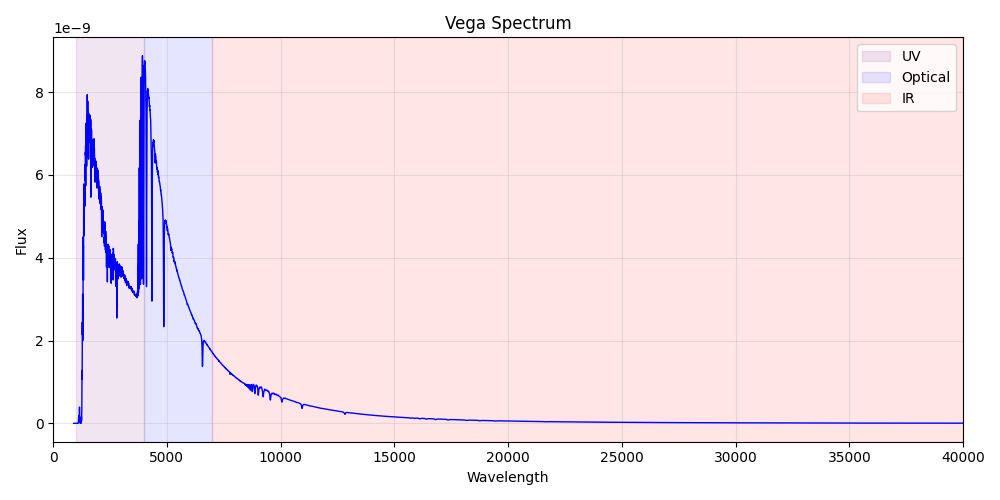
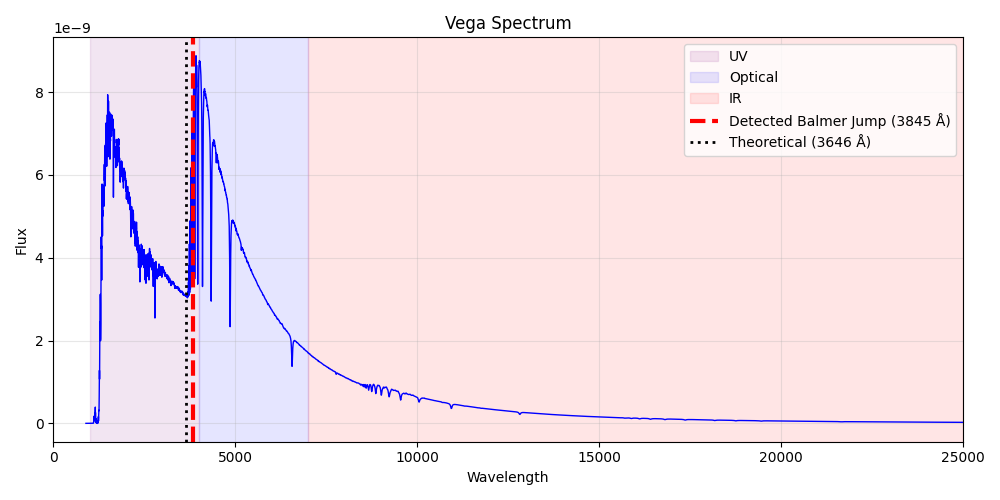
2025-11-14 update
更新了巴尔末跳跃，并修改了黑体拟合，使用巴尔末跳跃之后的光谱部分

diff --git a/src/physic_analyzer.py b/src/physic_analyzer.py
@@ -11,8 +11,19 @@ def surface_temperature(wavelength,flux):
 
     return T
 
+'''2.巴尔末跳跃'''
+def locate_balmer_jump(wavelength,flux):
+    search_region = (wavelength > 2000) & (wavelength < 5000)
+    wl_search = wavelength[search_region]
+    flux_search = flux[search_region]
+    # 找到梯度最大点
+    max_gradient_index = np.argmax(np.diff(flux_search))
+    balmer_jump_wavelength = wl_search[max_gradient_index + 1] # +1 因为diff使数组缩短了一位
+    print(f"巴尔末跳跃位置: {balmer_jump_wavelength:.1f} Å")
 
-'''2.普朗克黑体辐射拟合'''
+    return balmer_jump_wavelength
+
+'''3.普朗克黑体辐射拟合'''
 def fit_blackbody(wavelength,flux):
     from scipy.optimize import curve_fit
     def planck_law(wl,temperature,scale):
@@ -39,11 +50,16 @@ def fit_blackbody(wavelength,flux):
     # 使用非线性最小二乘法找到最佳的黑体参数
     # 初始猜测值: [温度, 缩放因子]
     # 织女星是A型星，温度约9600K，所以用10000K作为初始值
+    from physic_analyzer import locate_balmer_jump
+    balmer_jump_wavelength = locate_balmer_jump(wavelength,flux)
+    long_wavelength_region = (wavelength > balmer_jump_wavelength) & (wavelength < 25000)
+    wavelength_fit = wavelength[long_wavelength_region]
+    flux_fit = flux[long_wavelength_region]
+    
     # 缩放因子初始为1.0，让拟合算法自动调整
     initial_guess = [10000, 1.0]
-    
     # 执行拟合: 找到使理论曲线最接近观测数据的参数
-    popt, _ = curve_fit(planck_law, wavelength, flux, p0=initial_guess)
+    popt, _ = curve_fit(planck_law, wavelength_fit, flux_fit, p0=initial_guess)
     
     # 提取拟合结果
     temperature, scale_factor = popt
@@ -54,7 +70,7 @@ def fit_blackbody(wavelength,flux):
     return temperature, fitted_curve
 
 
-'''3.氢巴尔末谱线-等值宽度'''
+'''4.氢巴尔末谱线-等值宽度'''
 #测量四条氢谱线等值宽度与半高全宽
 def balmerlines(wavelength,flux):
     balmer_lines = {'Hα': 6562.8, 'Hβ': 4861.3, 'Hγ': 4340.5, 'Hδ': 4101.7}
@@ -89,7 +105,7 @@ def balmerlines(wavelength,flux):
     return results
 
 
-'''4.测量半高全宽'''
+'''5.测量半高全宽'''
 def measure_fwhm(wavelength,flux,center,instrument_FWHM):
     line_region = (wavelength > center - 15) & (wavelength < center + 15)
     line_wl = wavelength[line_region]
@@ -119,3 +135,4 @@ def measure_fwhm(wavelength,flux,center,instrument_FWHM):
         intrinsic_fwhm = 0.0
     
     return intrinsic_fwhm
+

diff --git a/src/visualizer.py b/src/visualizer.py
@@ -1,4 +1,5 @@
 import matplotlib.pyplot as plt
+import numpy as np
 
 '''波长-通量图'''
 def plot_spectrum(wavelength, flux, title="Spectrum"):
@@ -8,12 +9,23 @@ def plot_spectrum(wavelength, flux, title="Spectrum"):
     plt.ylabel('Flux')
     plt.title(title)
     plt.grid(True, alpha=0.3)
-    plt.xlim(0, 40000)
+    plt.xlim(0, 25000)
 
     # 主要波长区域标注
     plt.axvspan(1000, 4000, alpha=0.1, color='purple', label='UV')
     plt.axvspan(4000, 7000, alpha=0.1, color='blue', label='Optical')
-    plt.axvspan(7000, 40000, alpha=0.1, color='red', label='IR')
+    plt.axvspan(7000, 25000, alpha=0.1, color='red', label='IR')
+    plt.legend()
+
+    # 标记巴尔末系限
+    from physic_analyzer import locate_balmer_jump
+    jump_location = locate_balmer_jump(wavelength, flux)
+
+    plt.axvline(x=jump_location, color='red', linestyle='--', linewidth=3, 
+                label=f'Detected Balmer Jump ({jump_location:.0f} Å)')
+    plt.axvline(x=3646, color='black', linestyle=':', linewidth=2, 
+                label='Theoretical (3646 Å)')
+    
     plt.legend()
 
     plt.tight_layout()

diff --git a/main.py b/main.py
@@ -16,12 +16,12 @@ def main():
     data_file = r"D:\Documents\GitHub\stellar_spectroscopy_project\data\alpha_lyr_stis_011.fits"
     print(f"读取文件: {data_file}")
 
-    wavelength, flux = read_vega_spectrum(data_file)
+    wavelength, flux, instrument_FWHM, totexp= read_vega_spectrum(data_file)
     plot_spectrum(wavelength, flux, 'Vega Spectrum')
     # 检查数据范围
     print(f"通量范围: {flux.min():.2e} - {flux.max():.2e}")
 
-    # 计算表面温度
+    # 简单估算表面温度
     surface_temperature(wavelength,flux)
 
     # ====================普朗克黑体辐射拟合====================
@@ -38,7 +38,7 @@ def main():
 
     # ====================氢巴尔末谱线====================
     from dataloader import normalize_flux
-    wl_norm, flux_norm, max_flux = normalize_flux(wavelength, flux)
+    wl_norm, flux_norm, max_flux = normalize_flux(wavelength, flux) 
 
     from physic_analyzer import balmerlines
     W = balmerlines(wl_norm, flux_norm)

diff --git a/outputs/outcomes.md b/outputs/outcomes.md
@@ -1,0 +1,8 @@
+T: 7383.898224185957
+黑体拟合温度: 12650 K
+'等值宽度,'Hα: 6.7029 Å
+'等值宽度,'Hβ: 9.9047 Å
+'等值宽度,'Hγ: 10.7310 Å
+'等值宽度,'Hδ: 10.5598 Å
+
+据温度和等值宽度综合判断为A型星
